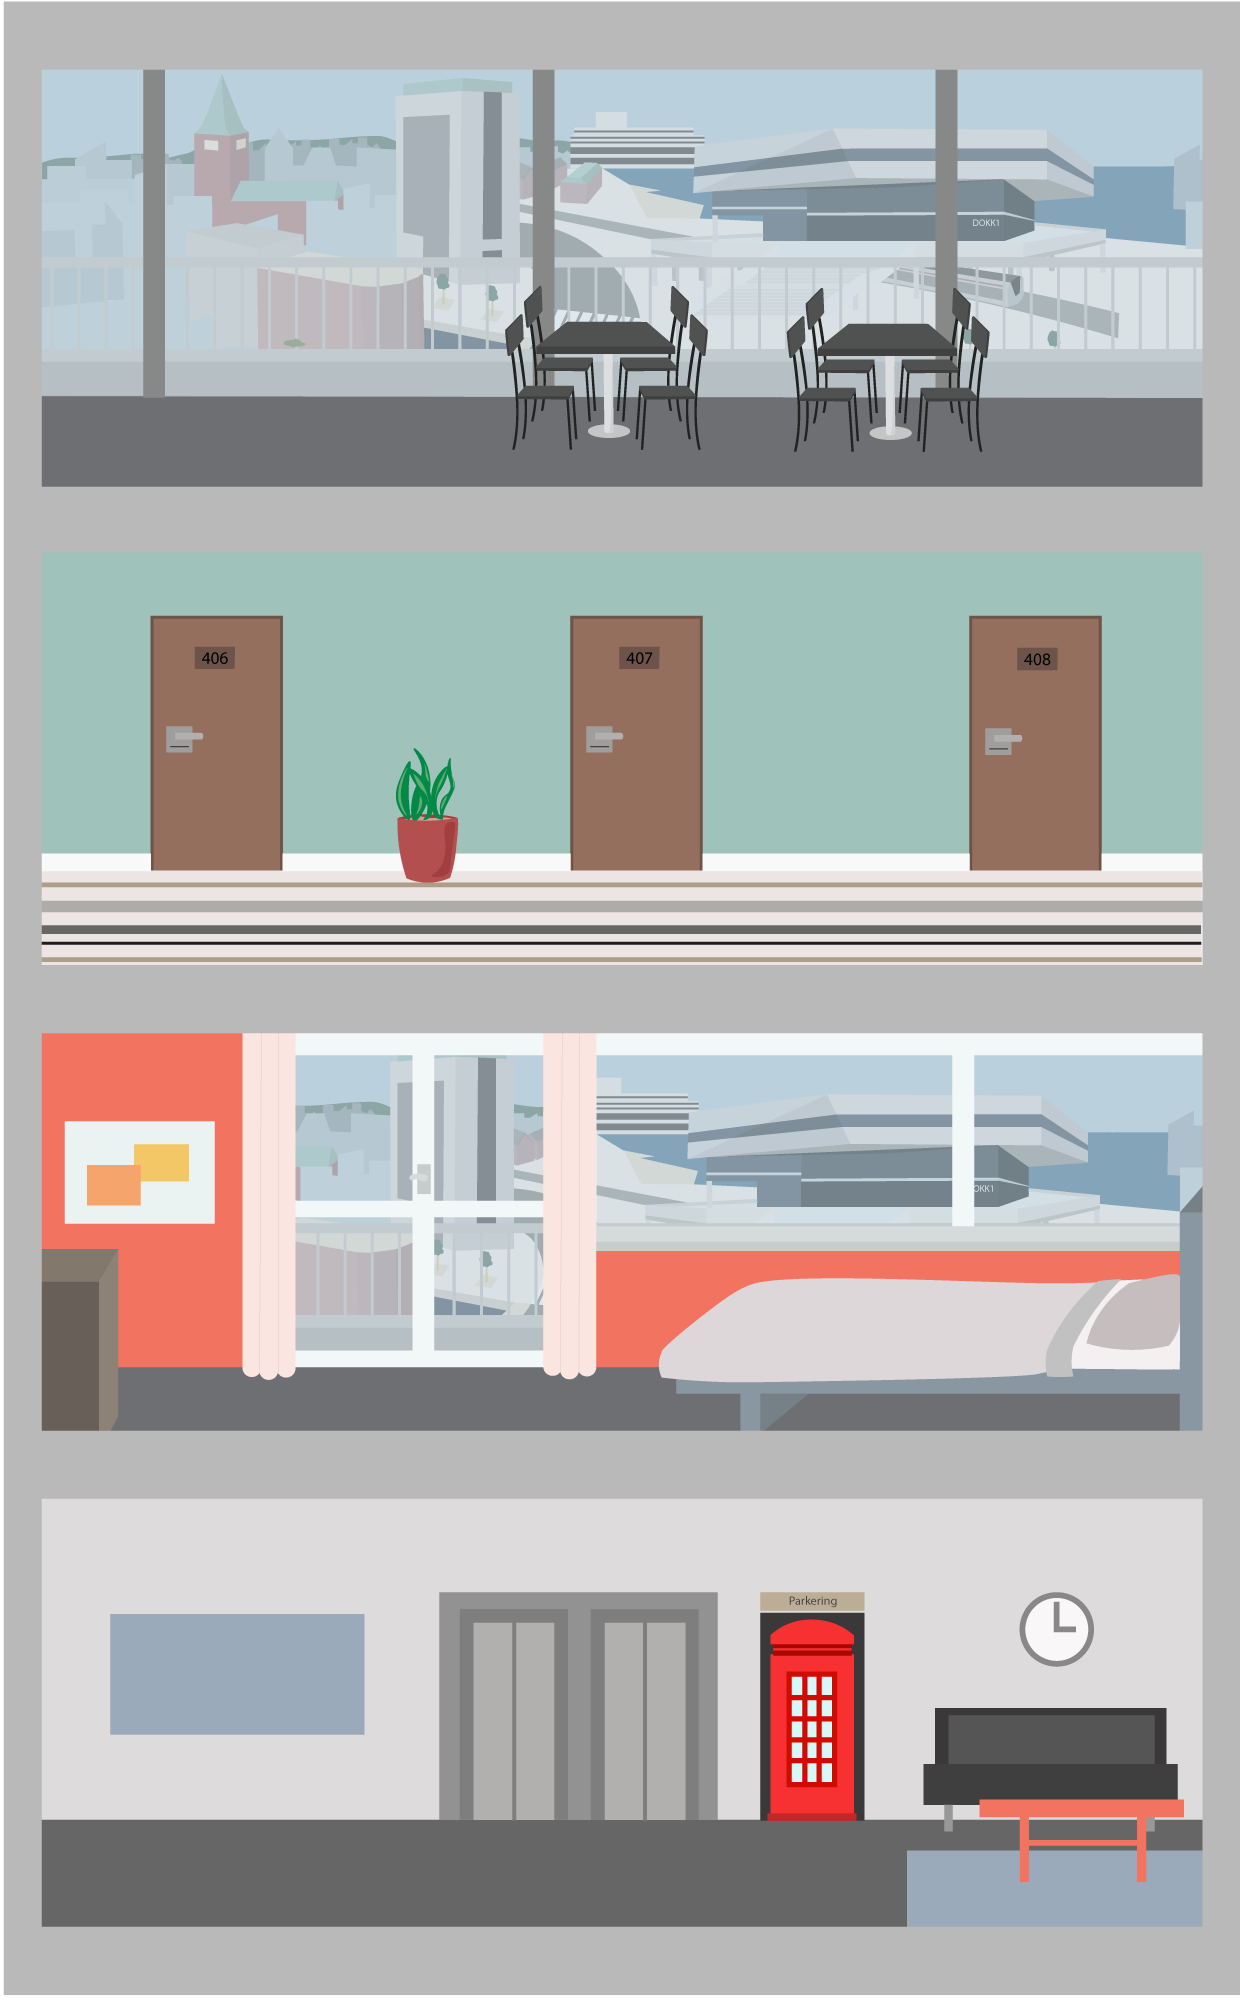
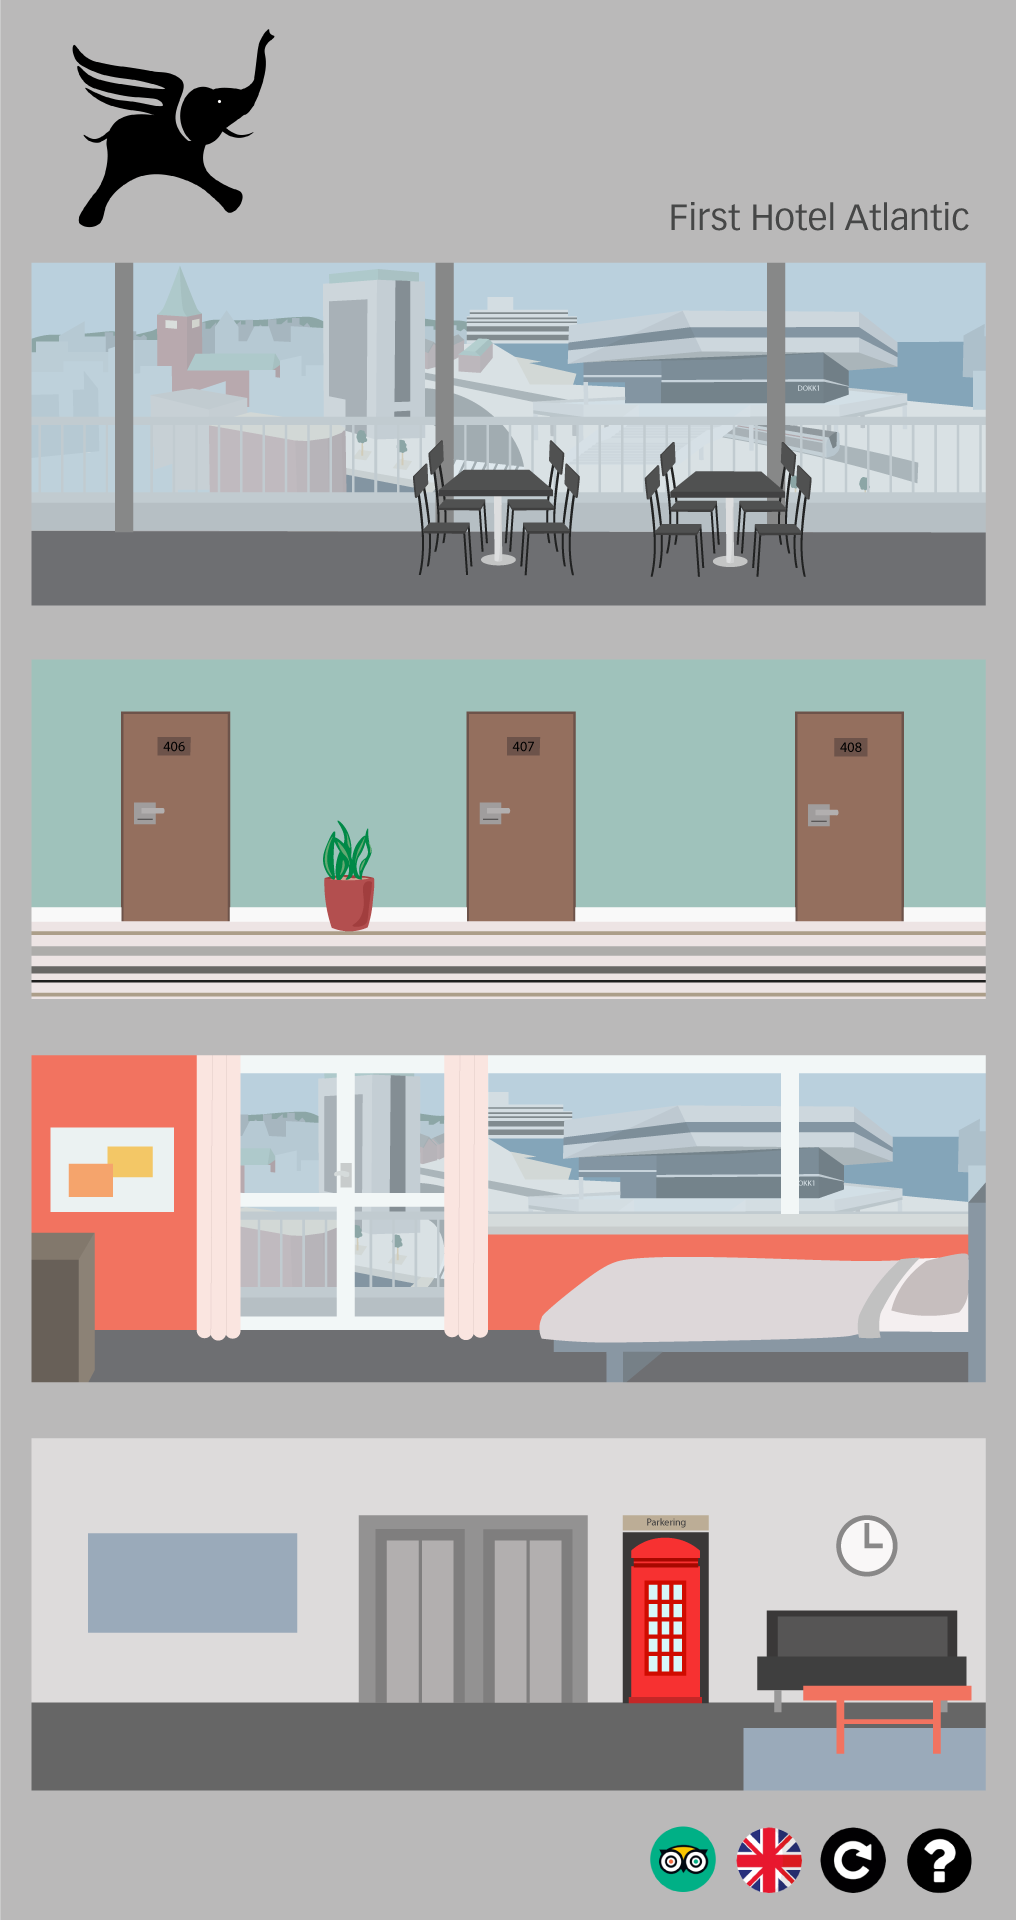
CSS redigere

diff --git a/index.html b/index.html
@@ -35,19 +35,19 @@
 
     <div class="row">
       <div class="col">
-        <button type="button" class="btn btn-primary" data-toggle="modal" data-target="#exampleModal" data-whatever="Stuepige" onclick="showPost('stuepige')"><img id="stuepige" src="img/stuepige.png" alt="stuepige"></button>
+        <button id="stuepige-button" type="button" class="btn btn-primary" data-toggle="modal" data-target="#exampleModal" data-whatever="Stuepige" onclick="showPost('stuepige')"><img id="stuepige" src="img/stuepige.png" alt="stuepige"></button>
       </div>
     </div>
     <div class="row">
-      <div class="col-7">
+      <div class="col">
         <button type="button" class="btn btn-primary" data-toggle="modal" data-target="#exampleModal" data-whatever="Værelse" onclick="showPost('kuffert')"><img id="kuffert" src="img/kuffert.png" alt="kuffert"></button>
       </div>
     </div>
     <div class="row">
-      <div class="col-5">
+      <div class="col">
         <button type="button" class="btn btn-primary" data-toggle="modal" data-target="#exampleModal" data-whatever="Reception" onclick="showPost('anmeldelse')"><img id="receptionist" src="img/receptionist.png" alt="receptionist"></button>
       </div>
-      <div class="col-6">
+      <div class="col">
         <button type="button" class="btn btn-primary" data-toggle="modal" data-target="#exampleModal" data-whatever="Velkommen" onclick="showPost('velkommen')"><img id="kimdegn" src="img/Kimdegn.png" alt="hotelejer"></button>
       </div>
     </div>

diff --git a/css/style.css b/css/style.css
@@ -1,13 +1,13 @@
 html {
-  width: 1240px;
-  height: 2000px;
+  width: 1020px;
+  height: 1920px;
   margin: 0;
   margin-left: 20%;
 }
 
 body {
   background-image: url(../img/baggrund.png);
-  background-size: cover;
+  background-size:cover;
   background-repeat: no-repeat;
   overflow-x: hidden;
 }
@@ -21,8 +21,14 @@ body {
 .btn-primary, .btn-primary:hover, .btn-primary:not(:disabled):not(.disabled).active, .btn-primary:not(:disabled):not(.disabled):active, .show>.btn-primary.dropdown-toggle {
   background-color: transparent;
   border-color: transparent;
+  width: auto;
 }
 
+#stuepige-button {
+  width: 50%;
+    margin-left: 45%;
+        margin-top: 10%;
+}
 .btn-secondary, .btn-secondary:hover {
   color: white;
   background-color: #bd372e;
@@ -81,7 +87,7 @@ h3 {font-size: 25px;}
 
 /* Bootstrap overwrite end */
 .container {
-  margin-top: 17%;
+  margin-top: 36%;
 }
 
 
@@ -130,16 +136,18 @@ h3 {font-size: 25px;}
 }
 
 #stuepige {
-  width: 35%;
-  margin-top: 15%
+  width:70%;
 }
 
+
 #receptionist {
-  width: 100%;
+  width: 65%;
+margin-right: 25%;
+margin-top: 15%;
 }
 
 #kimdegn {
-  width: 27%;
+  width: 26%;
 }
 
 #logo {margin-top: -30%;
@@ -153,6 +161,7 @@ h3 {font-size: 25px;}
 
 #kuffert {
   width: 20%;
+  margin-top: 38%;
 }
 
 
